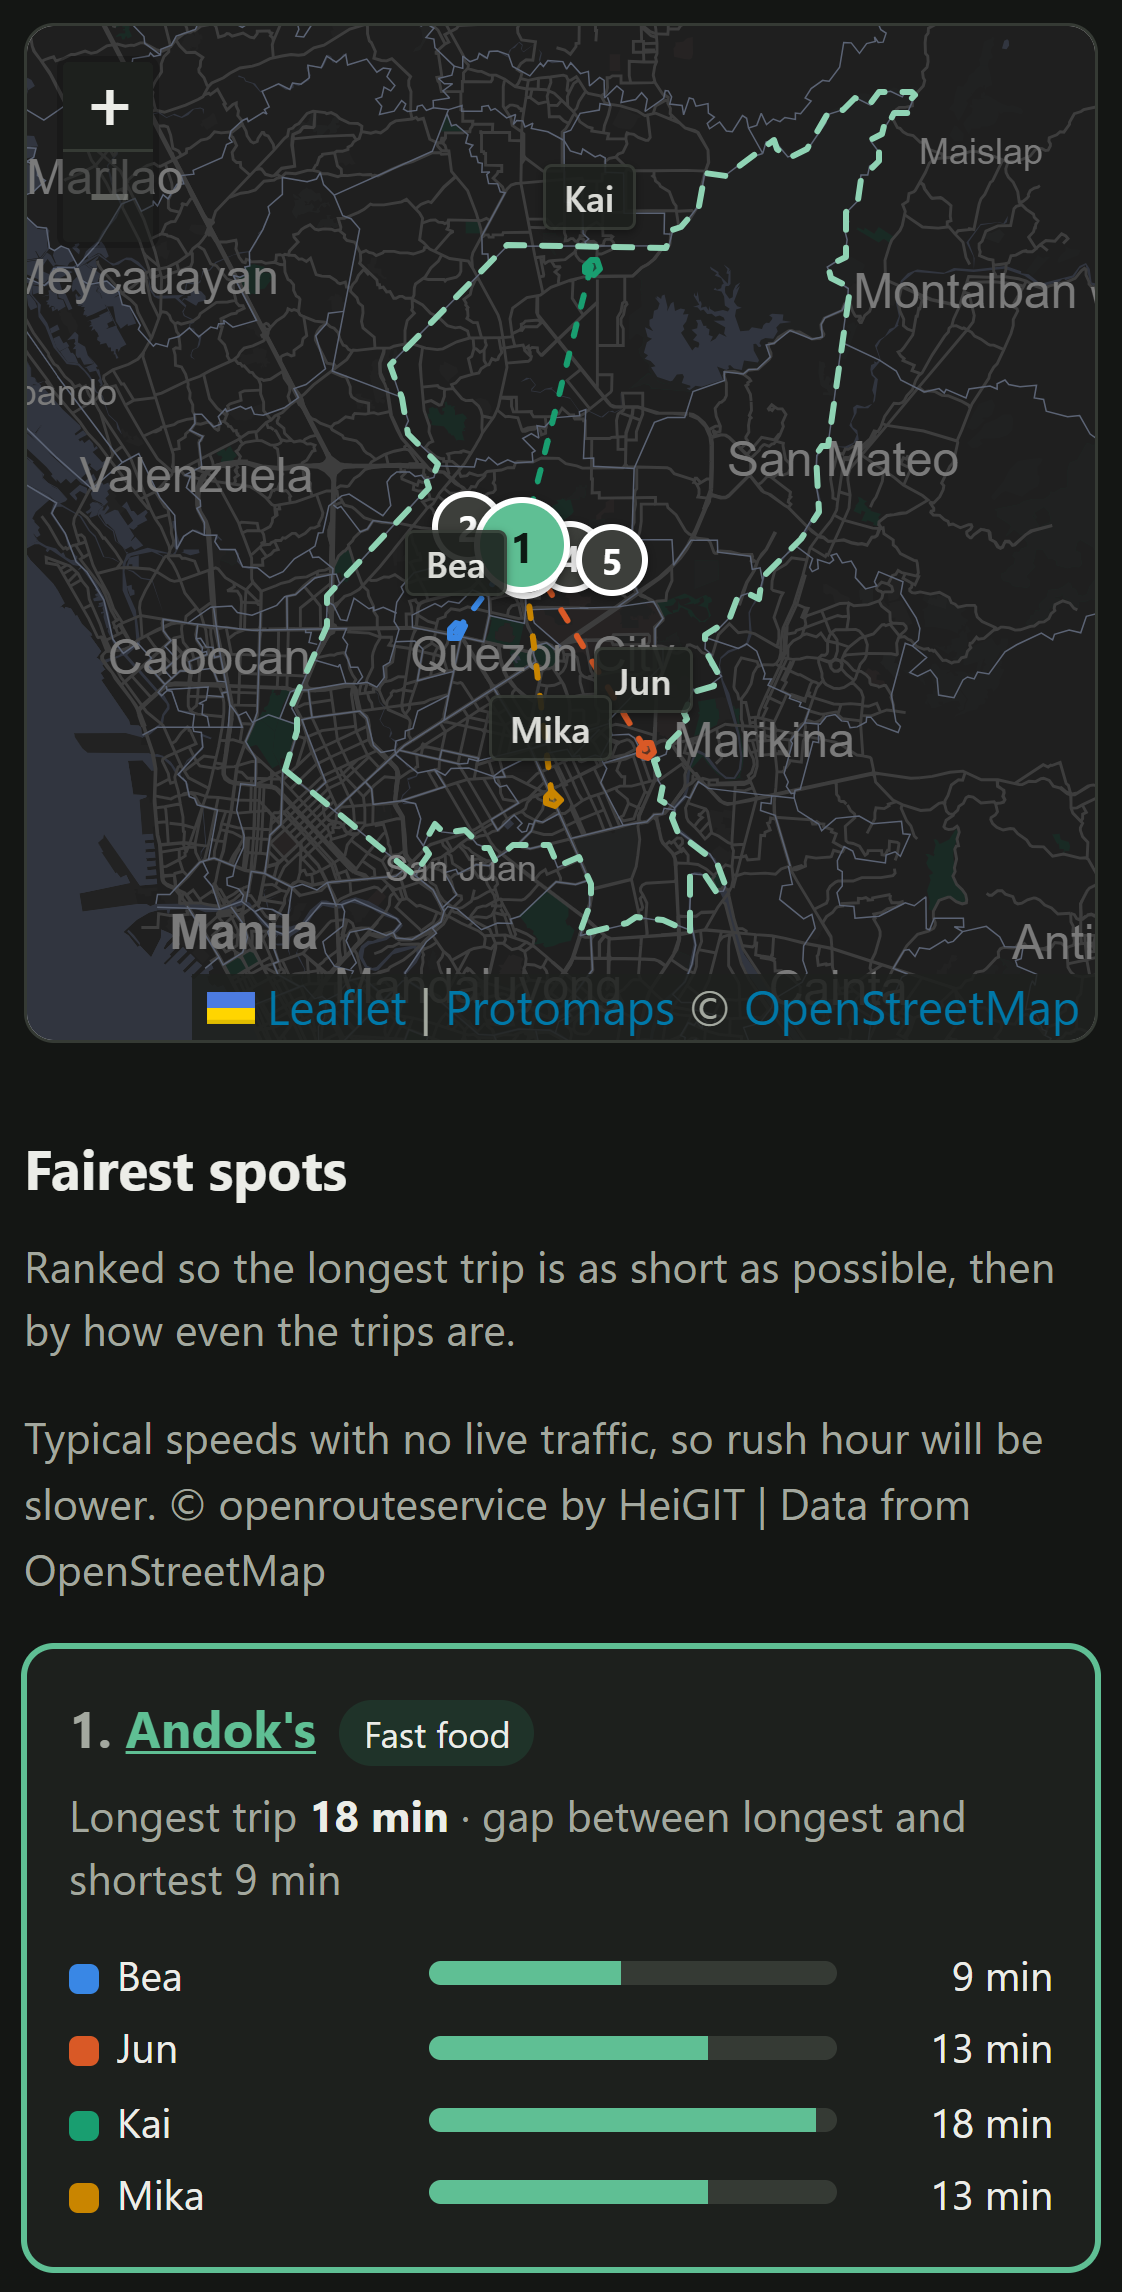
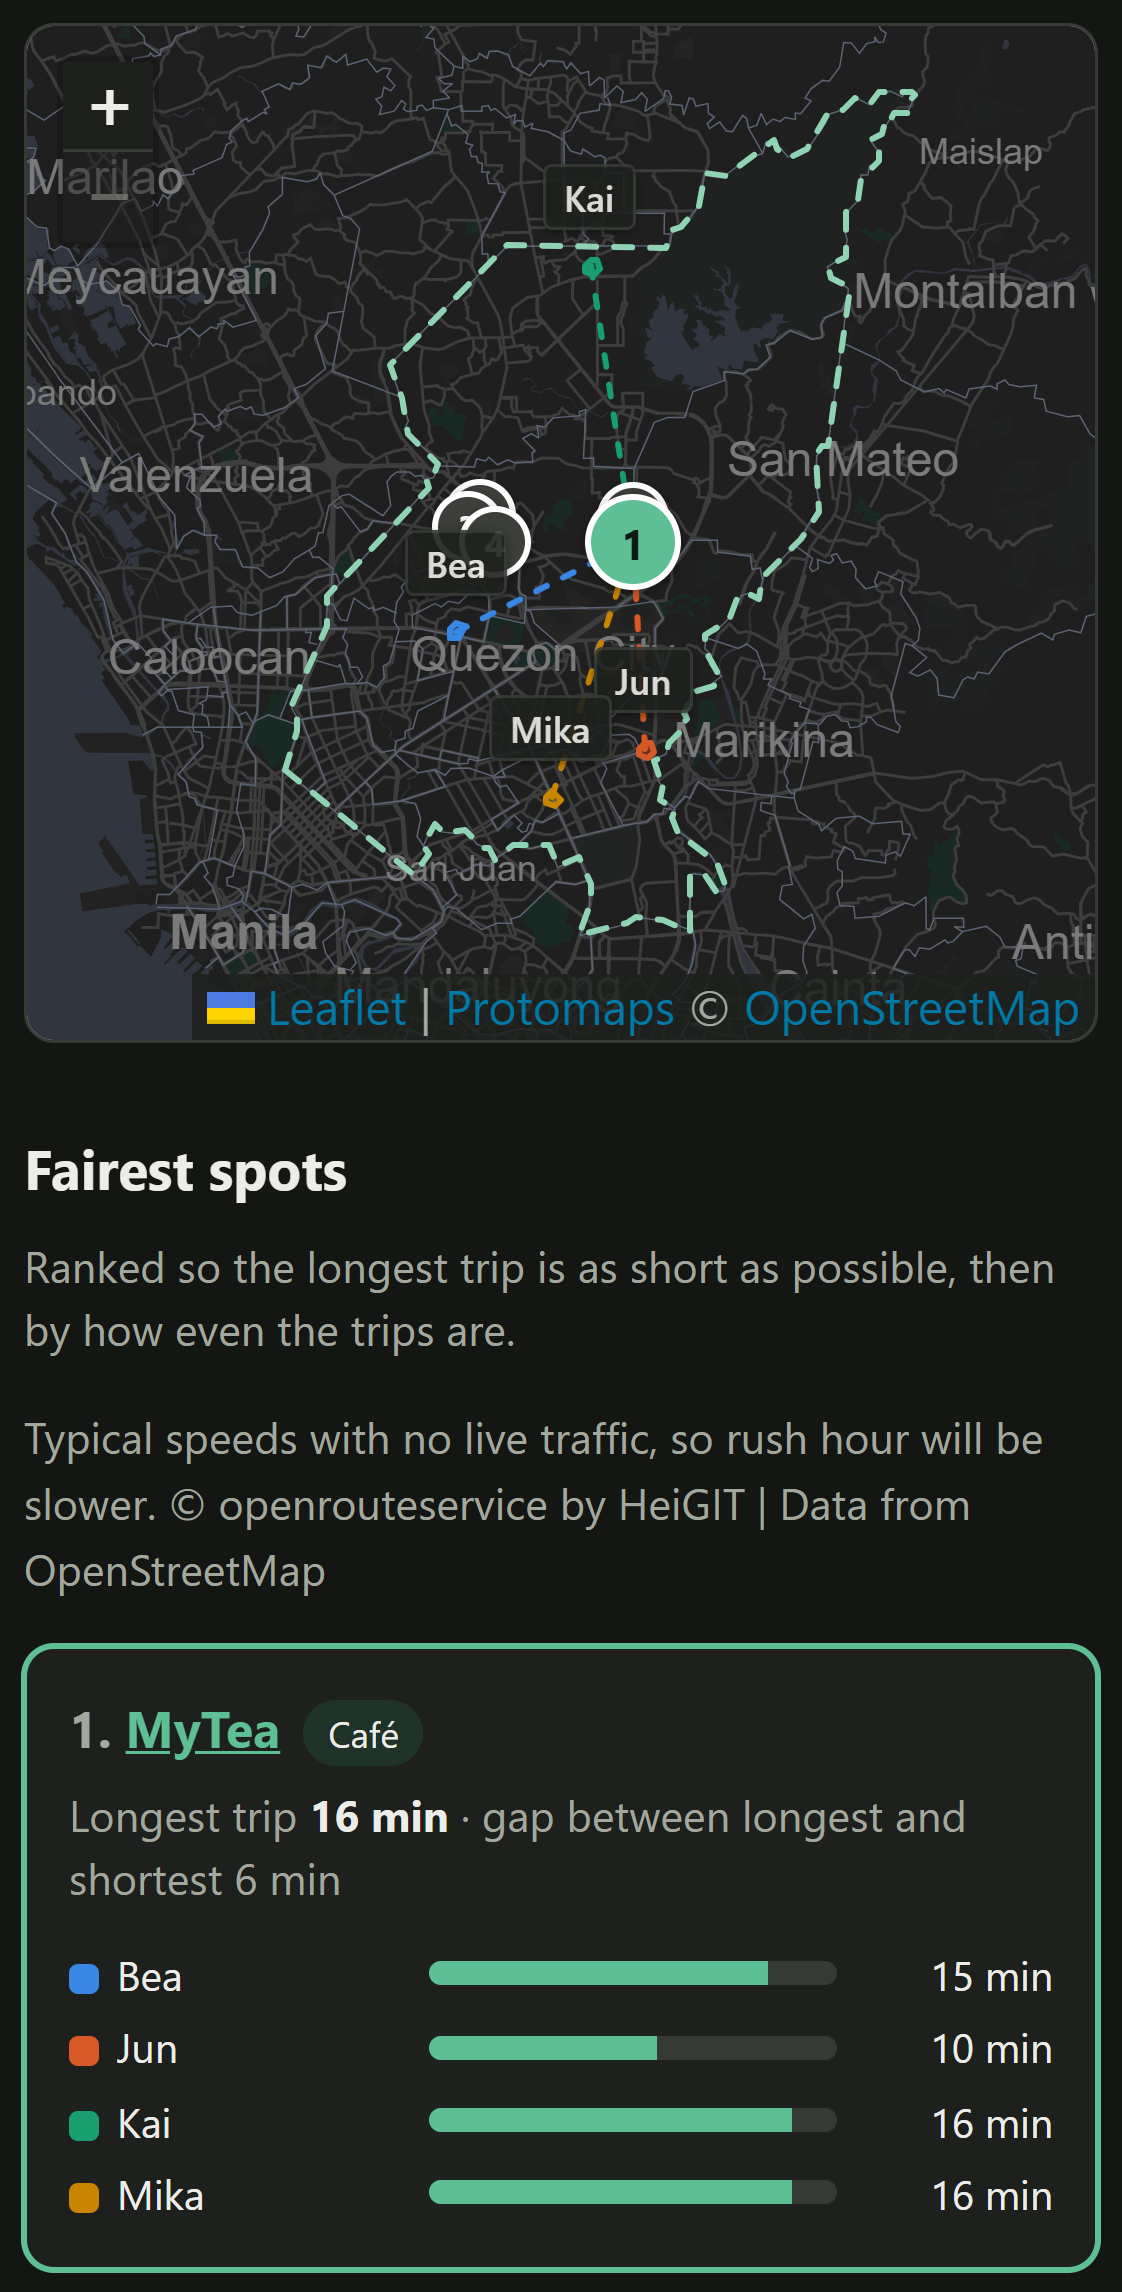
Rank near-ties in tiers with a 2-minute window
The 5-minute pairwise tolerance applied to both the longest trip and the
spread, so a venue whose longest trip was 2 minutes worse and whose gap
was 2 minutes wider could still win on total (Andok's 18/9 over R&B
Milktea 16/7 in a real ORS run). Pairwise "within tolerance" also isn't
transitive, so the sort order could be inconsistent.

Now venues are grouped into tiers by longest trip: each tier holds the
venues within 2 minutes of its best (about the error from snapping
landmarks to H3 cells). Tiers come in order; inside a tier the smaller
gap (whole minutes) wins, then the smaller total, then venue id for a
stable order. README screenshots retaken.

diff --git a/src/lib/scoring.ts b/src/lib/scoring.ts
@@ -3,7 +3,7 @@ import type { CostMatrix, Venue, VenueScore } from "./types";
 /**
  * Fair-venue ranking. Pure function, no I/O — this is the part to unit test.
  *
- * Objective (lexicographic, with tolerance):
+ * Objective (lexicographic):
  *   1. minimize the worst-off member's burden          (minimax)
  *   2. then minimize spread (max - min) this meeting   (equity)
  *   3. then minimize total cost                        (efficiency)
@@ -12,9 +12,19 @@ import type { CostMatrix, Venue, VenueScore } from "./types";
  * meetings. Objective 1 then minimizes max(prior + current), which naturally
  * sends the venue toward whoever has travelled least so far.
  *
- * `tolerance` treats objective values within that margin as ties, so a
- * 1-minute minimax difference doesn't override a large spread/total gain.
+ * Near-ties on objective 1: venues are grouped into tiers. The first tier is
+ * every venue whose worst is within `tolerance` minutes of the best worst;
+ * the next tier starts from the best of the rest, and so on. Tiers come in
+ * order; inside a tier, spread (to the whole minute) decides, then total.
+ * Measuring from each tier's best keeps the order consistent, unlike a
+ * pairwise "within tolerance" check (A≈B and B≈C but A<C).
+ *
+ * Default tolerance 2 min ≈ the error from snapping landmarks to H3 res-9
+ * cells, so it only absorbs differences the input can't resolve. It was 5,
+ * which let a venue with a 2-minute-longer worst trip win on total alone.
  */
+export const DEFAULT_TOLERANCE = 2;
+
 export function rankVenues(
   venues: Venue[],
   cost: CostMatrix,
@@ -22,7 +32,7 @@ export function rankVenues(
 ): VenueScore[] {
   const n = cost.length;
   const prior = opts.priorBurden ?? new Array(n).fill(0);
-  const tol = opts.tolerance ?? 5;
+  const tol = opts.tolerance ?? DEFAULT_TOLERANCE;
 
   if (prior.length !== n) throw new Error("priorBurden length != members");
 
@@ -44,10 +54,25 @@ export function rankVenues(
     });
   });
 
-  const cmp = (a: number, b: number) => (Math.abs(a - b) <= tol ? 0 : a - b);
-  return scored.sort(
+  // Assign tiers by worst: each tier spans [its best worst, + tol].
+  const byWorst = [...scored].sort((a, b) => a.worst - b.worst);
+  const tier = new Map<VenueScore, number>();
+  let t = -1;
+  let floor = -Infinity;
+  for (const s of byWorst) {
+    if (s.worst > floor + tol) {
+      t++;
+      floor = s.worst;
+    }
+    tier.set(s, t);
+  }
+  return byWorst.sort(
     (a, b) =>
-      cmp(a.worst, b.worst) || cmp(a.spread, b.spread) || a.total - b.total,
+      tier.get(a)! - tier.get(b)! ||
+      Math.round(a.spread) - Math.round(b.spread) ||
+      a.total - b.total ||
+      a.worst - b.worst ||
+      a.venue.venueId.localeCompare(b.venue.venueId),
   );
 }
 

diff --git a/src/lib/scoring.test.ts b/src/lib/scoring.test.ts
@@ -43,3 +43,42 @@ test("rotation shifts venue toward member with less prior burden", () => {
   const r = rankVenues(venues, cost, { priorBurden: [120, 0], tolerance: 0 });
   assert.equal(r[0].venue.venueId, "near0");
 });
+
+test("default tolerance: 2 min longer worst trip loses even with an equal total", () => {
+  // From a real ORS run: Andok's worst 18/spread 9, R&B worst 16/spread 7, both total 53.
+  const venues = [v("andoks"), v("rnb")];
+  const cost = [
+    [9, 9],
+    [13, 16],
+    [18, 14],
+    [13, 14],
+  ];
+  assert.deepEqual(rankVenues(venues, cost).map((s) => s.venue.venueId), ["rnb", "andoks"]);
+});
+
+test("within a tier, smaller spread beats smaller total", () => {
+  // worst 20 vs 21 (one tier at tol 2); B is more even, A is shorter overall.
+  const venues = [v("A"), v("B")];
+  const cost = [
+    [2, 18],
+    [20, 21],
+  ];
+  assert.deepEqual(rankVenues(venues, cost).map((s) => s.venue.venueId), ["B", "A"]);
+});
+
+test("tiers are measured from the best, so the order is consistent", () => {
+  // worst 20, 21.5, 23: pairwise-within-2 would chain all three together.
+  // Tiers: {20, 21.5}, {23}. C has the best spread but sits in the second tier.
+  const venues = [v("A"), v("B"), v("C")];
+  const cost = [
+    [20, 21.5, 23],
+    [10, 20, 23],
+  ];
+  assert.deepEqual(rankVenues(venues, cost).map((s) => s.venue.venueId), ["B", "A", "C"]);
+});
+
+test("ties all the way down are broken by venue id, so results are stable", () => {
+  const venues = [v("b"), v("a")];
+  const cost = [[10, 10], [10, 10]];
+  assert.deepEqual(rankVenues(venues, cost).map((s) => s.venue.venueId), ["a", "b"]);
+});

diff --git a/src/lib/h3.ts b/src/lib/h3.ts
@@ -6,7 +6,7 @@ import { QC_RING } from "./qc-boundary.ts";
  * H3 snapping — privacy quantization + precompute key.
  *
  * Res 9: avg edge ~200 m, area ~0.105 km². Max snap error ≈ one edge length
- * (~1–2 min drive), inside scoring's 5-min tie tolerance. Res 8 (~530 m edge)
+ * (~1–2 min drive), inside scoring's 2-min tie tolerance. Res 8 (~530 m edge)
  * can exceed it — don't drop below 9 without re-checking tolerance.
  *
  * Intended flow: the CLIENT snaps the landmark to a cell and sends only the

diff --git a/README.md b/README.md
@@ -28,7 +28,7 @@ Patas then shortlists about 20 venues (libraries, malls, cafés, fast food, comm
 2. then the smallest gap between the longest and shortest trip;
 3. then the smallest total travel time.
 
-Differences of 5 minutes or less count as ties and fall through to the next rule. The midpoint of everyone's locations is only used to start the search. It's rarely the fairest answer, because roads and traffic aren't symmetric.
+Longest trips within 2 minutes of the best one count as a tie, because snapping each landmark to a ~200 m cell can shift a trip by about that much. Among those, the smaller gap wins, then the smaller total. The midpoint of everyone's locations is only used to start the search. It's rarely the fairest answer, because roads and traffic aren't symmetric.
 
 On the map, each member's starting point is a ~200 m hexagon (an [H3](https://h3geo.org) cell), never an exact point. The numbered pins are the ranked venues, and the dashed lines show who travels to the selected one. They're straight lines, not routes.
 

diff --git a/CLAUDE.md b/CLAUDE.md
@@ -40,7 +40,10 @@ Working name "patas" (Tagalog: even/fair). Portfolio-grade MVP first; product la
 - Discrete facility location: candidates (public venues + each member's landmark
   as a host option) → n×m travel-time matrix → rank lexicographically:
   1. minimax (worst-off member), 2. spread (max−min), 3. total.
-  Near-ties within `tolerance` minutes fall through to the next objective.
+  Near-ties on 1 are tiers: venues within `tolerance` (default 2 min, ≈ H3
+  snap error) of the tier's best worst; inside a tier spread (whole minutes)
+  decides, then total. Tiers keep the order transitive; don't go back to a
+  pairwise tolerance compare.
 - Rotation: minimax over (prior cumulative burden + this meeting). Fairness is
   judged across meetings, not per meeting.
 - Time and pesos are separate objectives. Never blend them with an invented rate.
